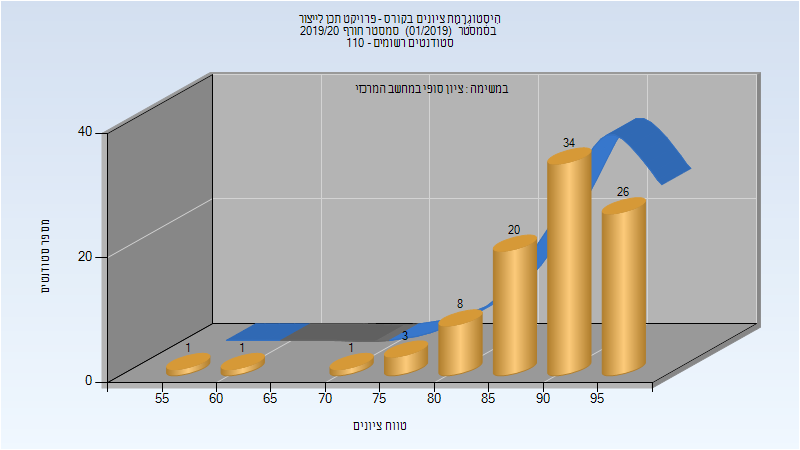
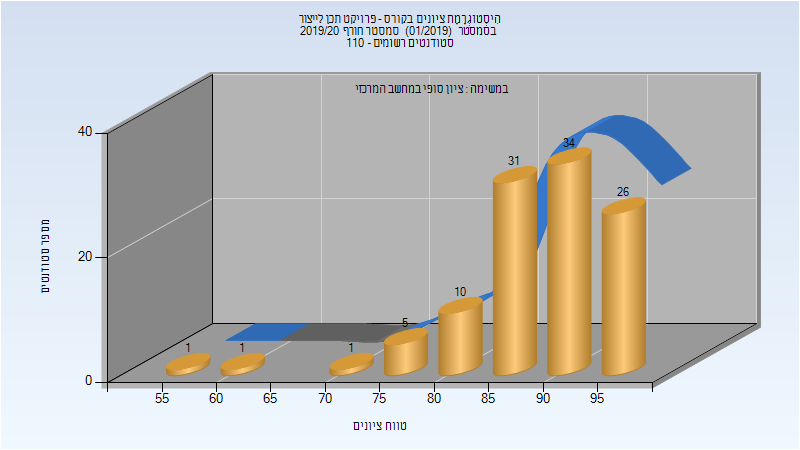
Deploy michael-maltsev/technion-histograms to github.com/michael-maltsev/technion-histograms.git:gh-pages

diff --git a/034371/index.html b/034371/index.html
@@ -157,6 +157,36 @@
 </tbody>
 </table>
 <h2>חורף 2019-2020</h2>
+<table>
+<thead>
+<tr>
+<th>איש סגל</th>
+<th>תפקיד</th>
+</tr>
+</thead>
+<tbody>
+<tr>
+<td>אקונס פרץ</td>
+<td>מרצה</td>
+</tr>
+<tr>
+<td>טננבאום עמי</td>
+<td>מרצה</td>
+</tr>
+<tr>
+<td>פישר דניאל</td>
+<td>מרצה</td>
+</tr>
+<tr>
+<td>צוק דובי</td>
+<td>מרצה</td>
+</tr>
+<tr>
+<td>ארקה חבייר</td>
+<td>מרצה</td>
+</tr>
+</tbody>
+</table>
 <h3>סופי</h3>
 <p><img src="201901/Finals.png" alt="201901 Finals" /></p>
 <table>
@@ -173,13 +203,13 @@
 </thead>
 <tbody>
 <tr>
-<td>94</td>
-<td>94/0</td>
+<td>109</td>
+<td>109/0</td>
 <td>100</td>
 <td>55</td>
 <td>98</td>
-<td>89.787</td>
-<td>91</td>
+<td>89.064</td>
+<td>90</td>
 </tr>
 </tbody>
 </table>

diff --git a/034210/index.html b/034210/index.html
@@ -20,6 +20,20 @@
   <body>
     <h1>034210 - תכן טורבו-מכונות ומנועי סילון 1</h1>
 <h2>חורף 2019-2020</h2>
+<table>
+<thead>
+<tr>
+<th>איש סגל</th>
+<th>תפקיד</th>
+</tr>
+</thead>
+<tbody>
+<tr>
+<td>אדלר דן</td>
+<td>מרצה - אחראי מקצוע</td>
+</tr>
+</tbody>
+</table>
 <h3>סופי מועד א'</h3>
 <p><img src="201901/Final_A.png" alt="201901 Final_A" /></p>
 <table>

diff --git a/394801/index.html b/394801/index.html
@@ -500,11 +500,11 @@
 <td>סגל מנהלי - עם הרשאות מרצה אחראי</td>
 </tr>
 <tr>
-<td>הראל אילנה</td>
+<td>בן ענת רוחמה</td>
 <td>סגל מנהלי - עם הרשאות מרצה אחראי</td>
 </tr>
 <tr>
-<td>בן ענת רוחמה</td>
+<td>הראל אילנה</td>
 <td>סגל מנהלי - עם הרשאות מרצה אחראי</td>
 </tr>
 </tbody>

diff --git a/034371/README.md b/034371/README.md
@@ -47,11 +47,19 @@
 
 ## חורף 2019-2020
 
+| איש סגל | תפקיד |
+| ---- | ---- |
+| אקונס פרץ | מרצה |
+| טננבאום עמי | מרצה |
+| פישר דניאל | מרצה |
+| צוק דובי | מרצה |
+| ארקה חבייר | מרצה |
+
 ### סופי
 
 ![201901 Finals](201901/Finals.png)
 
 | סטודנטים | עברו/נכשלו | אחוז עוברים | ציון מינימלי | ציון מקסימלי | ממוצע | חציון |
 | ---- | ---- | ---- | ---- | ---- | ---- | ---- |
-| 94 | 94/0 | 100 | 55 | 98 | 89.787 | 91 |
+| 109 | 109/0 | 100 | 55 | 98 | 89.064 | 90 |
 

diff --git a/394801/README.md b/394801/README.md
@@ -157,8 +157,8 @@
 | מרגלית חווה | מרצה - אחראי מקצוע |
 | איסמן ליסה | סגל מנהלי - עם הרשאות מרצה אחראי |
 | בורנשטיין יעל | סגל מנהלי - עם הרשאות מרצה אחראי |
-| הראל אילנה | סגל מנהלי - עם הרשאות מרצה אחראי |
 | בן ענת רוחמה | סגל מנהלי - עם הרשאות מרצה אחראי |
+| הראל אילנה | סגל מנהלי - עם הרשאות מרצה אחראי |
 
 ### סופי מועד א'
 

diff --git a/034210/README.md b/034210/README.md
@@ -2,6 +2,10 @@
 
 ## חורף 2019-2020
 
+| איש סגל | תפקיד |
+| ---- | ---- |
+| אדלר דן | מרצה - אחראי מקצוע |
+
 ### סופי מועד א'
 
 ![201901 Final_A](201901/Final_A.png)
